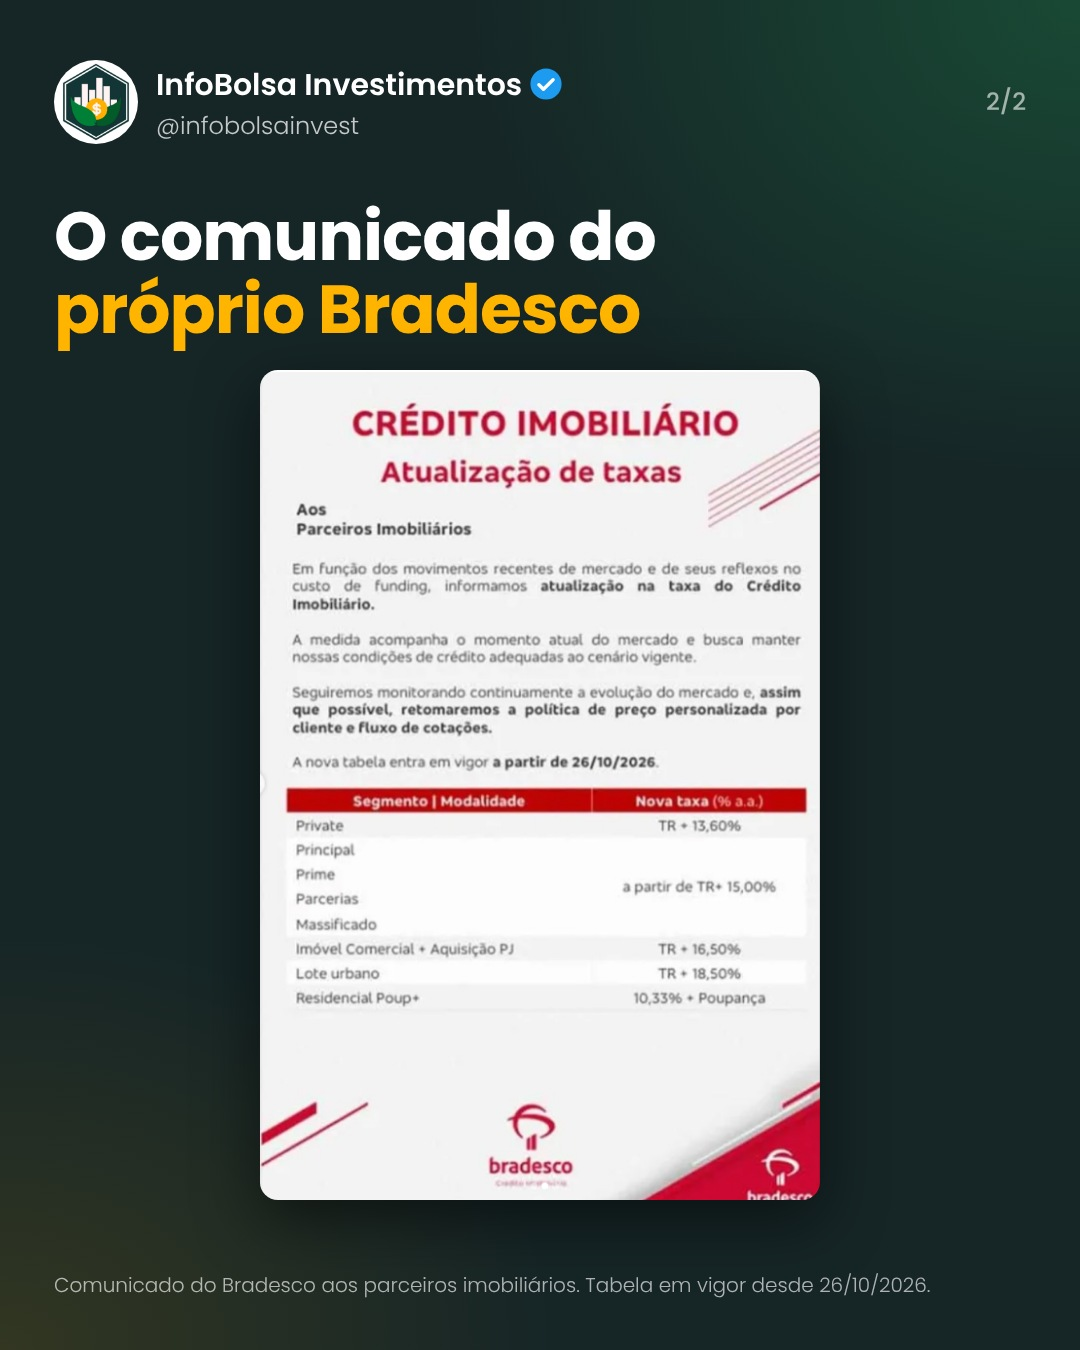
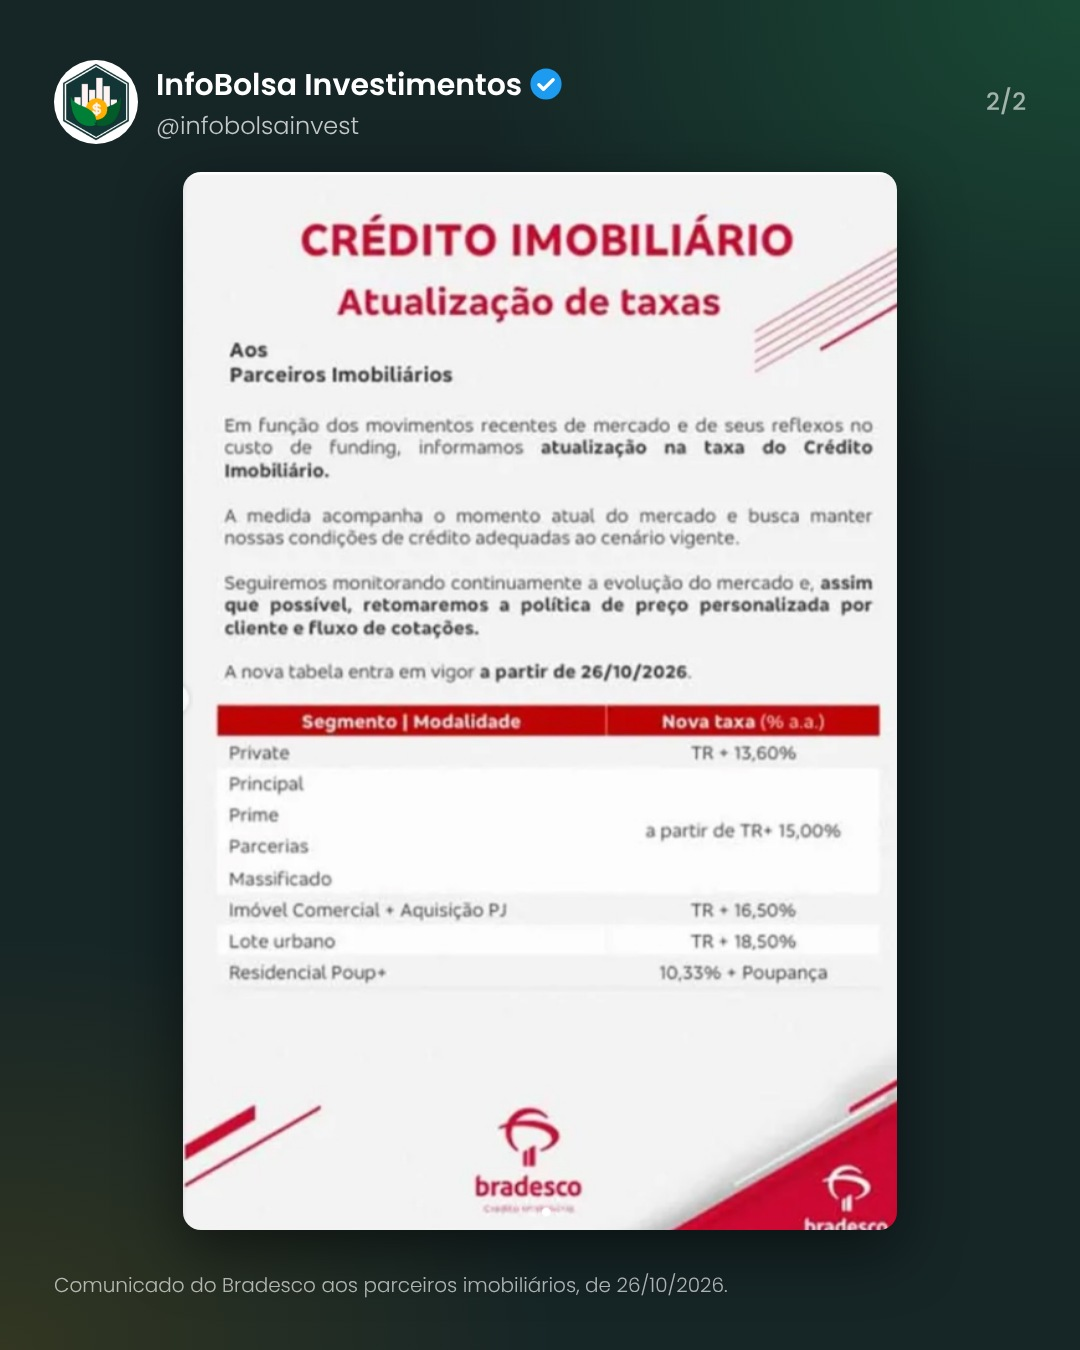
Bradesco 27/10: comunicado maior no slide 2

Changed region(s): [[0.0306, 0.1244, 0.8556, 0.9644]]

diff --git a/kit/gen_bradesco.py b/kit/gen_bradesco.py
@@ -26,7 +26,7 @@ def page(css,body,pg): return BASE.replace('@@CSS@@',css).replace('@@SELO@@',SEL
 
 # Slide 2 do carrossel do Bradesco (27/10/2026): print do comunicado aos parceiros
 out=sys.argv[1]
-B=BASE.replace('Fontes: Agência Senado, Agência Brasil e Exame. Projeção de 05/10/2026.','Comunicado do Bradesco aos parceiros imobiliários. Tabela em vigor desde 26/10/2026.')
-css='''.pr{position:absolute;left:50%;top:370px;transform:translateX(-50%);height:830px;border-radius:18px;box-shadow:0 20px 60px rgba(0,0,0,.5)}'''
-body='<h1>O comunicado do<br><em>próprio Bradesco</em></h1><img class="pr" src="assets/prints/bradesco-comunicado-2026-10-26.png">'
+B=BASE.replace('Fontes: Agência Senado, Agência Brasil e Exame. Projeção de 05/10/2026.','Comunicado do Bradesco aos parceiros imobiliários, de 26/10/2026.')
+css='''.pr{position:absolute;left:50%;top:172px;transform:translateX(-50%);height:1058px;border-radius:18px;box-shadow:0 20px 60px rgba(0,0,0,.5)}'''
+body='<img class="pr" src="assets/prints/bradesco-comunicado-2026-10-26.png">'
 open(out,'w').write(B.replace('@@CSS@@',css).replace('@@SELO@@',SELO).replace('@@PG@@','2/2').replace('@@BODY@@',body))
